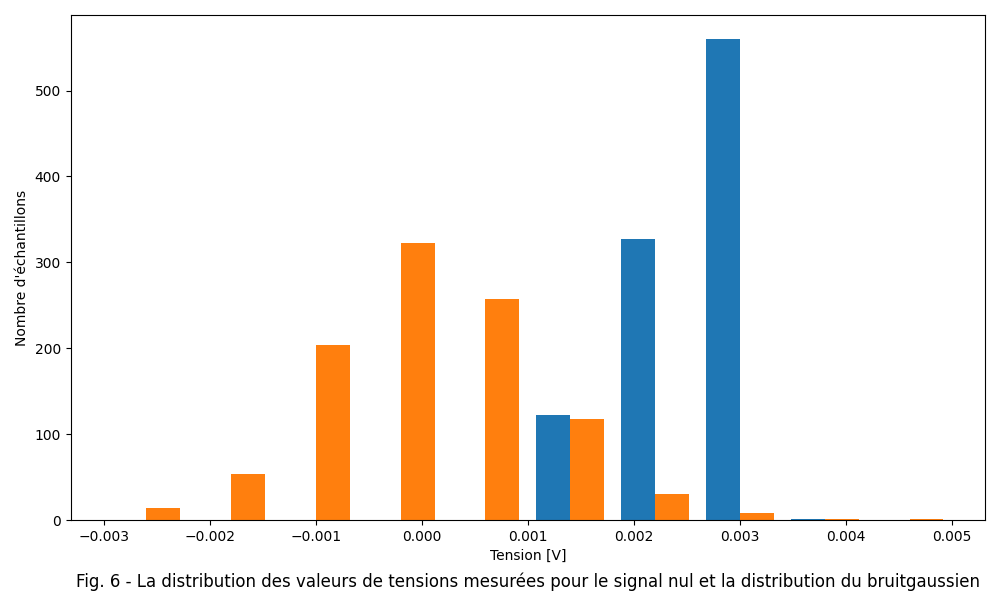
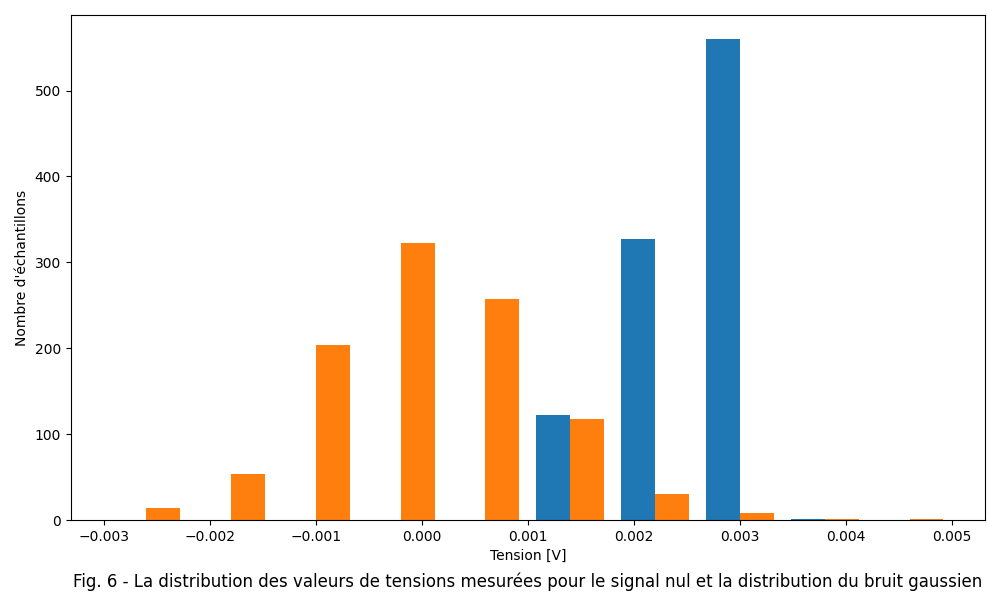
Correction fig

Changed region(s): [[0.062, 0.96, 0.992, 0.99]]

diff --git a/Labo1/Programmation/Comparaison_bruit.py b/Labo1/Programmation/Comparaison_bruit.py
@@ -95,7 +95,7 @@ def histogramme(array):
     plt.xlabel("Tension [V]")
     plt.ylabel("Nombre d'échantillons")
     plt.title("Fig. 6 - La distribution des valeurs de tensions mesurées pour le signal nul et la distribution du bruit" \
-              "gaussien",
+              " gaussien",
               y=-0.15)
 
     plt.tight_layout()
@@ -104,6 +104,6 @@ def histogramme(array):
     plt.show()
 
 
-# histogramme(read(filepath))
+histogramme(read(filepath))
 
-graphiques_scatter(read(filepath))
+# graphiques_scatter(read(filepath))
